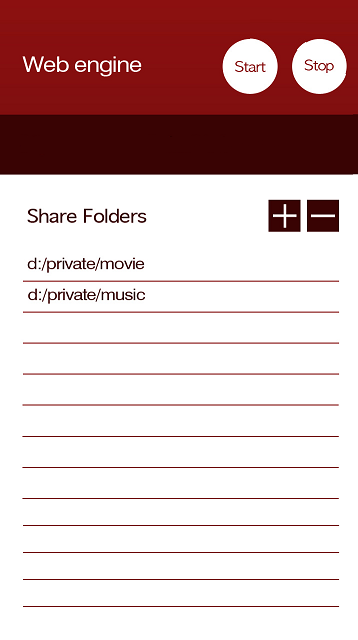
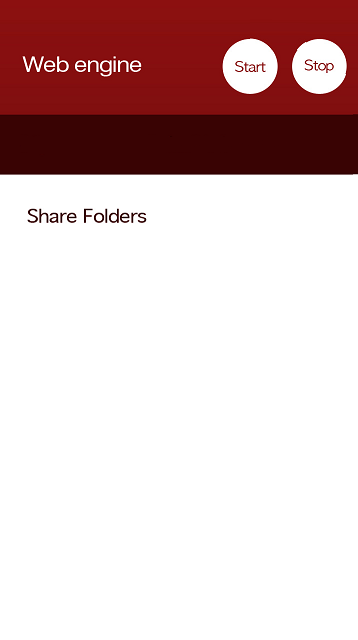
implement drag&drop

Changed region(s): [[0.0615, 0.4062, 0.4302, 0.5], [0.7374, 0.3125, 0.9525, 0.375]]

diff --git a/win/app/appview.cpp b/win/app/appview.cpp
@@ -4,13 +4,11 @@
 #include <QXmlStreamWriter>
 #include <QXmlStreamReader>
 #include <QFile>
-#include <QMessageBox>
 #include <QtNetwork/QNetworkInterface>
 
+
 AppView::AppView(QWidget *parent) :
-    QMainWindow(parent),
-    ui(new Ui::AppView),
-    DBfile("./conf.xml")
+    ui(new Ui::AppView)
 {
     ui->setupUi(this);
     setFixedSize(358, 640);
@@ -18,8 +16,77 @@ AppView::AppView(QWidget *parent) :
     connect(ui->btnplus, SIGNAL(clicked()), this, SLOT(insertSharedDir()));
     connect(ui->btnminus, SIGNAL(clicked()), this, SLOT(removeSharedDir()));
 
-    loadXML();
+    //ui->btnplus->setFocusPolicy(Qt::NoFocus);
+
+    loadXML(ui);
     getIPAddress();
+}
+
+bool AppView::saveXML(QListWidget *qlist)
+{
+    /* Sample Code */
+    /*
+    <int to QString>
+    QString tmp2;
+    tmp2.setNum(sizeOfQlist);
+    ui->lb_addr->setText(tmp2);
+
+    <Use QMessageBox>
+    QMessageBox::warning(0, "TEST", qlist->item(i)->text());
+
+    <Read QListWidgetItem Text>
+    ui->lb_addr->setText(qlist->item(i)->text());
+    */
+
+    QFile savefile(DBFILE);
+    if (!savefile.open(QIODevice::WriteOnly)) {
+        QMessageBox::warning(0, "Warning", "File is not created");
+        return false;
+    }
+
+    QXmlStreamWriter xmlWriter(&savefile);
+    xmlWriter.writeStartDocument();
+    xmlWriter.writeStartElement("SHAREDDIR");
+
+    for (int i=0; i<qlist->count(); i++) {
+        xmlWriter.writeStartElement("PATH");
+        xmlWriter.writeCharacters(qlist->item(i)->text());
+        xmlWriter.writeEndElement();
+    }
+
+    xmlWriter.writeEndElement();
+    xmlWriter.writeEndDocument();
+    savefile.close();
+    return true;
+}
+
+bool AppView::loadXML(Ui::AppView *ui)
+{
+    QFile loadfile(DBFILE);
+    if (!loadfile.open(QIODevice::ReadOnly)) {
+        QMessageBox::warning(0, "Warning", "DB File is not loaded");
+        return false;
+    }
+    QXmlStreamReader xmlReader(&loadfile);
+
+    while (!xmlReader.atEnd() && !xmlReader.hasError()) {
+        QXmlStreamReader::TokenType token = xmlReader.readNext();
+        if (token == QXmlStreamReader::StartDocument) {
+            continue;
+        }
+        if (token == QXmlStreamReader::StartElement) {
+            if (xmlReader.name() == "SHAREDDIR") {
+                continue;
+            }
+            if (xmlReader.name() == "PATH") {
+               new QListWidgetItem(xmlReader.readElementText(), ui->listWidget);
+            }
+        }
+    }
+
+    xmlReader.clear();
+    loadfile.close();
+    return true;
 }
 
 AppView::~AppView()
@@ -31,7 +98,15 @@ bool AppView::getIPAddress()
 {
     QList<QHostAddress> ipList = QNetworkInterface::allAddresses();
 
+    // Preliminary Code
+    /*
     for (int i=0; i<ipList.size(); i++) {
+        if (ipList.at(i) != QHostAddress::LocalHost && ipList.at(i).toIPv4Address()) {
+            new QListWidgetItem(ipList.at(i).toString(), ui->listWidget);
+        }
+    }
+    */
+    for (int i=0; i!=ipList.size(); i++) {
         // Filter for IPv4 Type Address without local loop address(127.0.0.1)
         if (ipList.at(i) != QHostAddress::LocalHost && ipList.at(i).toIPv4Address()) {
             if (ipList.at(i).toString() != NULL) {
@@ -50,10 +125,18 @@ bool AppView::setConnectAddr(QString addr)
 
 void AppView::insertSharedDir()
 {
+    /* Sample Code */
+    /*
+        <Open Dir Explorer>
+        QFileDialog *file = new QFileDialog(this);
+        file->setFileMode(QFileDialog::Directory);
+        file->exec();
+    */
+
     QString currentDir = QFileDialog::getExistingDirectory();
     if (currentDir != NULL) {
         new QListWidgetItem(currentDir, ui->listWidget);
-        saveXML(ui->listWidget);
+        AppView::saveXML(ui->listWidget);
     }
 }
 
@@ -61,63 +144,6 @@ void AppView::removeSharedDir()
 {
     // Remove current index item from list && Update XML DB
     ui->listWidget->takeItem(ui->listWidget->currentRow());
-    saveXML(ui->listWidget);
+    AppView::saveXML(ui->listWidget);
 }
 
-bool AppView::loadXML()
-{
-    QFile loadfile(DBfile);
-    if (!loadfile.open(QIODevice::ReadOnly)) {
-        QMessageBox::warning(0, "Warning", "File is not loaded");
-        return false;
-    }
-    QXmlStreamReader xmlReader(&loadfile);
-
-    while (!xmlReader.atEnd() && !xmlReader.hasError()) {
-        QXmlStreamReader::TokenType token = xmlReader.readNext();
-        if (token == QXmlStreamReader::StartDocument) {
-            continue;
-        }
-        if (token == QXmlStreamReader::StartElement) {
-            if (xmlReader.name() == "path") {
-               new QListWidgetItem(xmlReader.readElementText(), ui->listWidget);
-            }
-            else {
-               continue;
-            }
-        }
-    }
-
-    xmlReader.clear();
-    loadfile.close();
-    return true;
-}
-
-bool AppView::saveXML(QListWidget *qlist)
-{
-    QFile savefile(DBfile);
-    if (!savefile.open(QIODevice::WriteOnly)) {
-        QMessageBox::warning(0, "Warning", "File is not created");
-        return false;
-    }
-
-    QXmlStreamWriter xmlWriter(&savefile);
-    xmlWriter.writeStartDocument();
-    xmlWriter.writeStartElement("shareddir");
-
-    for (int i=0; i<qlist->count(); i++) {
-        xmlWriter.writeStartElement("contents");
-        xmlWriter.writeStartElement("path");
-        xmlWriter.writeCharacters(qlist->item(i)->text());
-        xmlWriter.writeEndElement();
-        xmlWriter.writeStartElement("lnpath");
-        xmlWriter.writeCharacters(qlist->item(i)->text());
-        xmlWriter.writeEndElement();
-        xmlWriter.writeEndElement();
-    }
-
-    xmlWriter.writeEndElement();
-    xmlWriter.writeEndDocument();
-    savefile.close();
-    return true;
-}

diff --git a/win/app/mylistwidget.cpp b/win/app/mylistwidget.cpp
@@ -1,0 +1,74 @@
+#include <QtGui>
+#include "mylistwidget.h"
+
+myListWidget::myListWidget(QWidget *parent)
+    : QListWidget(parent)
+{
+
+}
+
+bool myListWidget::dropMimeData(int index, const QMimeData *data, Qt::DropAction action)
+{
+    QList<QUrl> urlList;
+    QListWidgetItem *item;
+    QFileInfo info;
+    QString fName;
+
+
+    urlList = data->urls(); // retrieve list of urls
+
+    foreach(QUrl url, urlList) {// iterate over list
+        fName = url.toLocalFile();
+        info.setFile( fName );
+
+        //item = new QListWidgetItem(info.fileName());
+        item = new QListWidgetItem(fName);
+
+        insertItem(index, item);
+        ++index; // increment index to preserve drop order
+        AppView::saveXML(this);
+    }
+    return true;
+}
+
+
+QStringList myListWidget::mimeTypes () const
+{
+    QStringList qstrList;
+    // list of accepted mime types for drop
+    qstrList.append("text/uri-list");
+    return qstrList;
+}
+
+
+Qt::DropActions myListWidget::supportedDropActions () const
+{
+    return Qt::CopyAction;
+}
+
+
+void myListWidget::mouseMoveEvent(QMouseEvent *event)
+{
+    // if not left button - return
+    if (!(event->buttons() & Qt::LeftButton)) return;
+
+    // if no item selected, return (else it would crash)
+    if (currentItem() == NULL) return;
+
+    QDrag *drag = new QDrag(this);
+    QMimeData *mimeData = new QMimeData;
+
+    // construct list of QUrls
+    // other widgets accept this mime type, we can drop to them
+    QList<QUrl> list;
+    list.append(QUrl(currentItem()->text())); // only QUrl in list will be text of actual item
+
+    // mime stuff
+    mimeData->setUrls(list);
+    drag->setMimeData(mimeData);
+
+    // start drag
+    drag->start(Qt::CopyAction | Qt::MoveAction);
+}
+
+

diff --git a/win/app/appview.h b/win/app/appview.h
@@ -8,10 +8,14 @@
 #include <QtGui>
 #include <QListWidget>
 #include <QListWidgetItem>
+#include <QMessageBox>
+
+#define DBFILE "./shDir.xml"
 
 namespace Ui {
 class AppView;
 }
+
 
 class AppView : public QMainWindow
 {
@@ -20,18 +24,16 @@ class AppView : public QMainWindow
 public:
     explicit AppView(QWidget *parent = 0);
     ~AppView();
-    bool loadXML();
-    bool saveXML(QListWidget *qlist);
     bool getIPAddress();
+    Ui::AppView *ui;
+    static bool saveXML(QListWidget *qlist);
+    static bool loadXML(Ui::AppView *ui);
 
 public slots:
     void insertSharedDir();
     void removeSharedDir();
-
     
 private:
-    QString DBfile;
-    Ui::AppView *ui;
     bool setConnectAddr(QString addr);
 };
 

diff --git a/win/app/mylistwidget.h b/win/app/mylistwidget.h
@@ -1,0 +1,29 @@
+#ifndef MYLISTWIDGET_H
+#define MYLISTWIDGET_H
+
+#include <QtGui>
+#include "appview.h"
+
+namespace Ui {
+class myListWidget;
+}
+
+class myListWidget : public QListWidget
+{
+    Q_OBJECT
+
+public:
+    myListWidget(QWidget *parent = 0);
+
+    virtual bool dropMimeData(int index, const QMimeData *data, Qt::DropAction action);
+    QStringList mimeTypes() const;
+    Qt::DropActions supportedDropActions () const;
+
+    void mouseMoveEvent(QMouseEvent *event);
+
+private:
+    QPoint dragStartPosition;
+};
+
+
+#endif // MYLISTWIDGET_H
